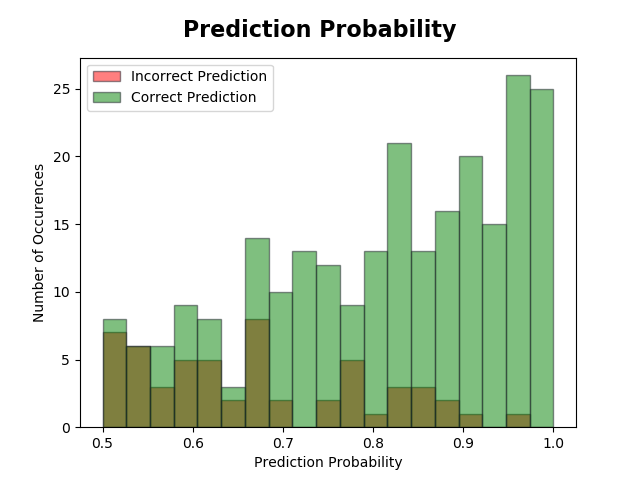
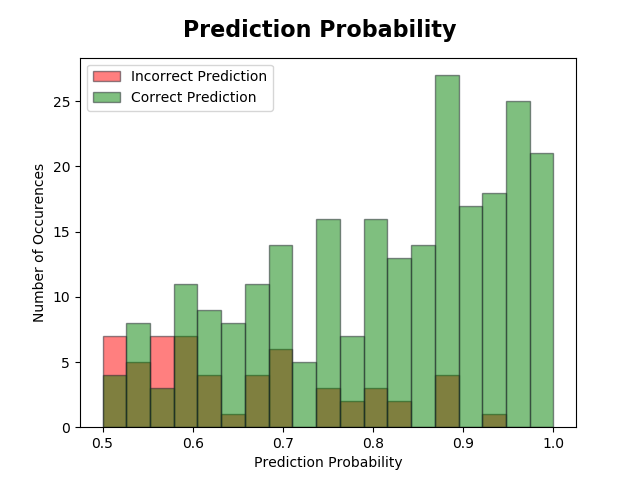
def pred_proba_plot & confusion matrix

diff --git a/Heart_Disease_Univariate_Classification/ml_model_build.py b/Heart_Disease_Univariate_Classification/ml_model_build.py
@@ -121,11 +121,45 @@ ax.set(ylabel='Number of Occurences',
 fig.savefig('figures\prediction_probability.png')
 
 
+#Replicating the above figure but iteratively repeating until the result stabalises.
+def pred_proba_plot(clf, x, y, cv, no_iter, no_bins):
+    y_dup = []
+    correct_guess_pred = []
+    incorrect_guess_pred = []
+    for i in range(no_iter):
+        if i % 2 == 0:
+            print(f'completed {i} iterations')
+        y_pred_cv = cross_val_predict(clf, x, y, cv=cv)
+        y_pred_proba_cv = cross_val_predict(clf, x, y, cv=cv, method='predict_proba')
+        y_dup.append(list(y))
+        for i in range(len(y_pred_cv)):
+            if y_pred_cv[i] == list(y)[i]:
+                correct_guess_pred.append(max(y_pred_proba_cv[i]))
+            if y_pred_cv[i] != list(y)[i]:
+                incorrect_guess_pred.append(max(y_pred_proba_cv[i]))
+                
+    bins = np.linspace(0.5,1,no_bins)
+    fig, ax = plt.subplots()
+    ax.hist(incorrect_guess_pred, bins, alpha=0.5, edgecolor='#1E212A', color='red', label='Incorrect Prediction')
+    ax.hist(correct_guess_pred, bins, alpha=0.5, edgecolor='#1E212A', color='green', label='Correct Prediction')
+    ax.legend()
+    fig.suptitle(f'Prediction Probability - Iterated {no_iter} Times', y=0.96, fontsize=16, fontweight='bold');
+    ax.set(ylabel='Number of Occurences',
+            xlabel='Prediction Probability')
+    return fig
+
+
+#fig = pred_proba_plot(clf, x, y, 5, 50, 25)
+#fig.savefig('figures\prediction_probability_50.png')
+
+
 #----- CONFUSION MATRIX -----
 
 #this gives us [[true positives, false positives], [false negatives, true negatives]]
 print('Confusion Matrix \n', confusion_matrix(y_test, y_pred), '\n')
-plot_confusion_matrix(clf, x_test, y_test, cmap=plt.cm.Blues)
+fig = plot_confusion_matrix(clf, x_test, y_test, cmap=plt.cm.Blues, display_labels=('Has HD', 'No HD'))
+fig.ax_.set_title('Heart Disease Classification Confusion Matrix')
+plt.savefig('figures\confusion_matrix.png')
 
 
 #----- RECEIVER OPERATING CURVE (ROC & AUC) -----
